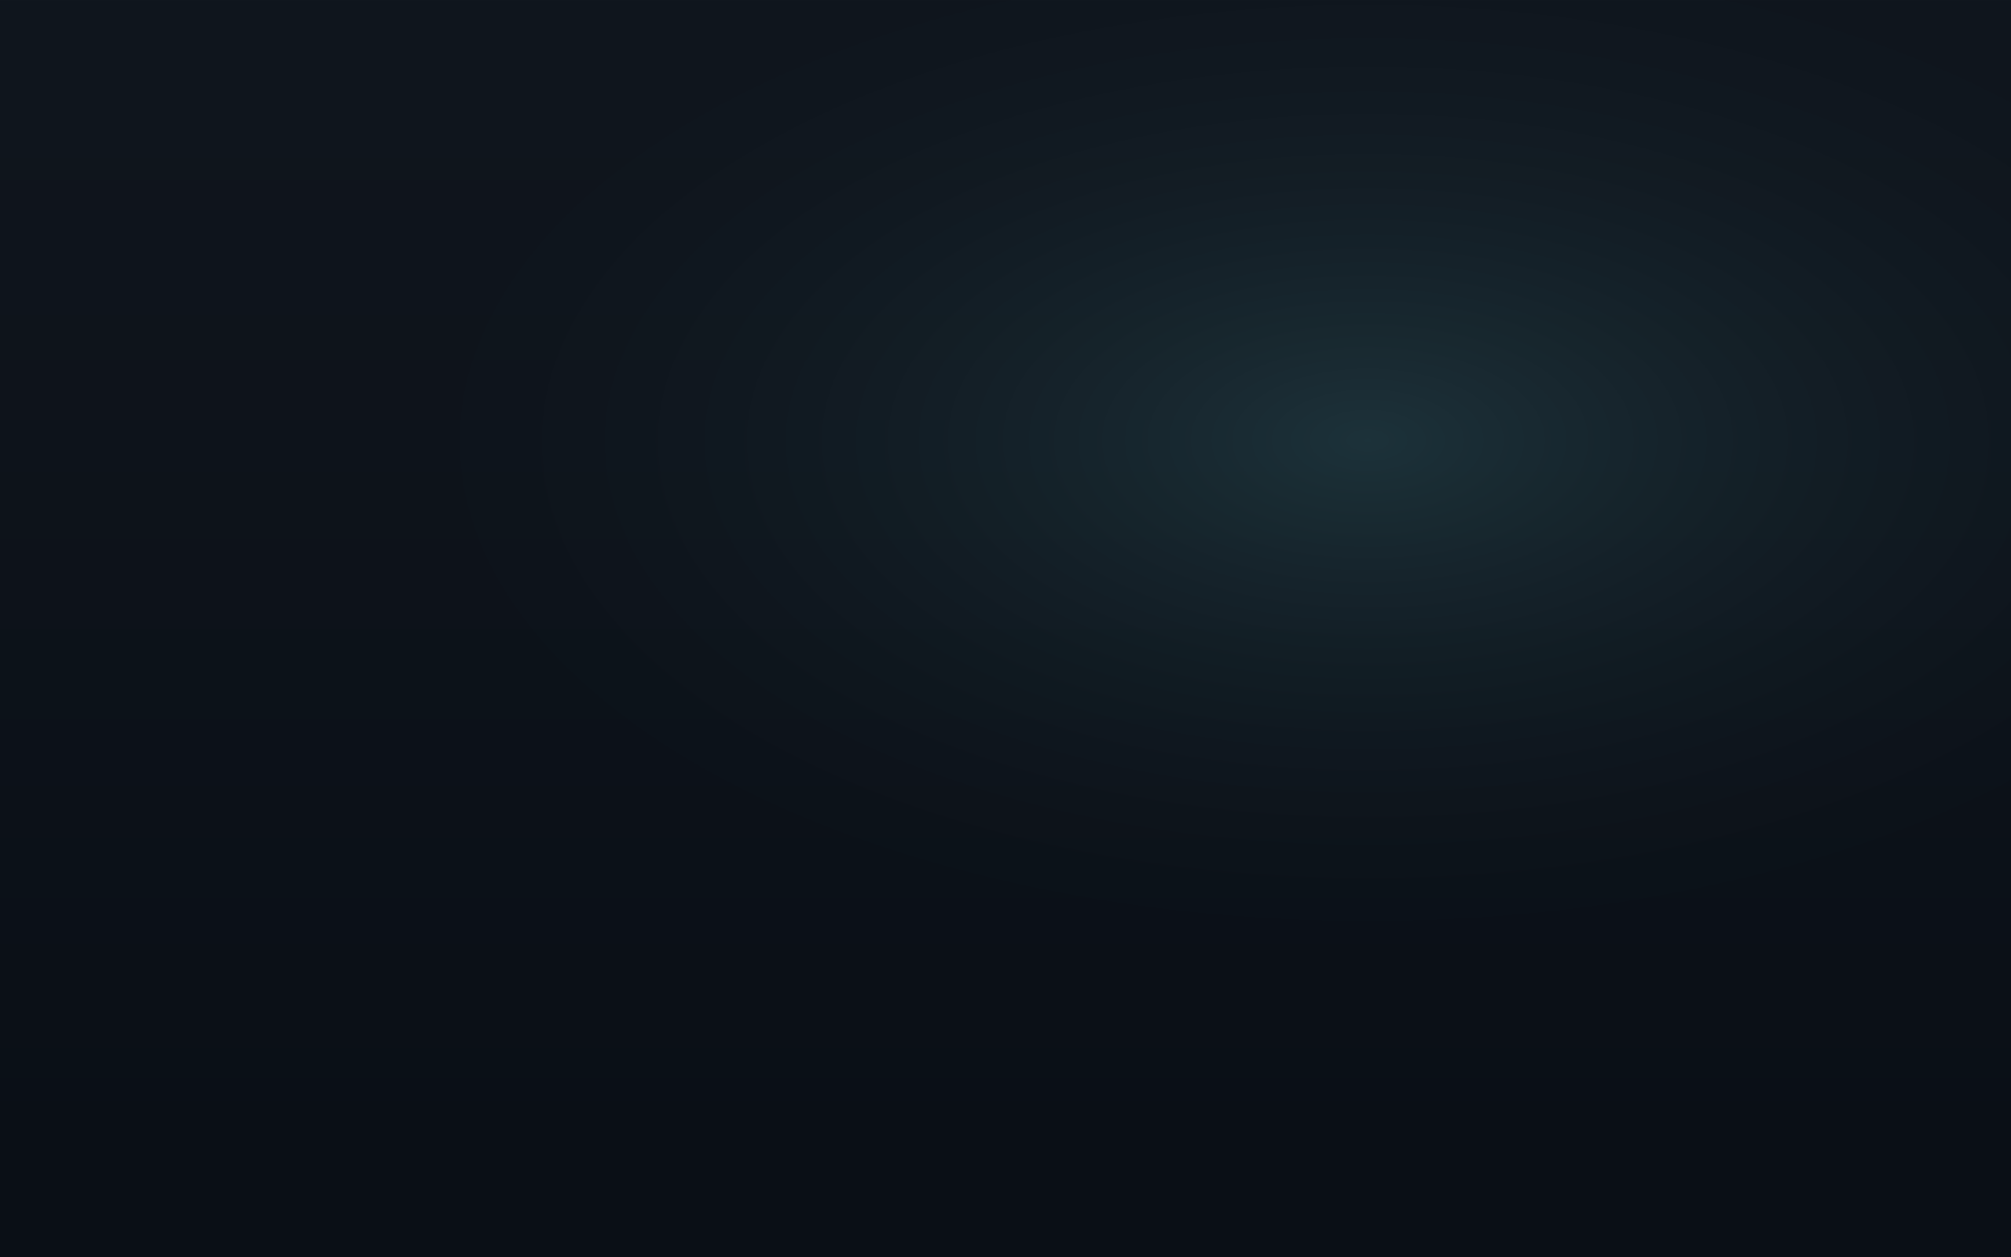
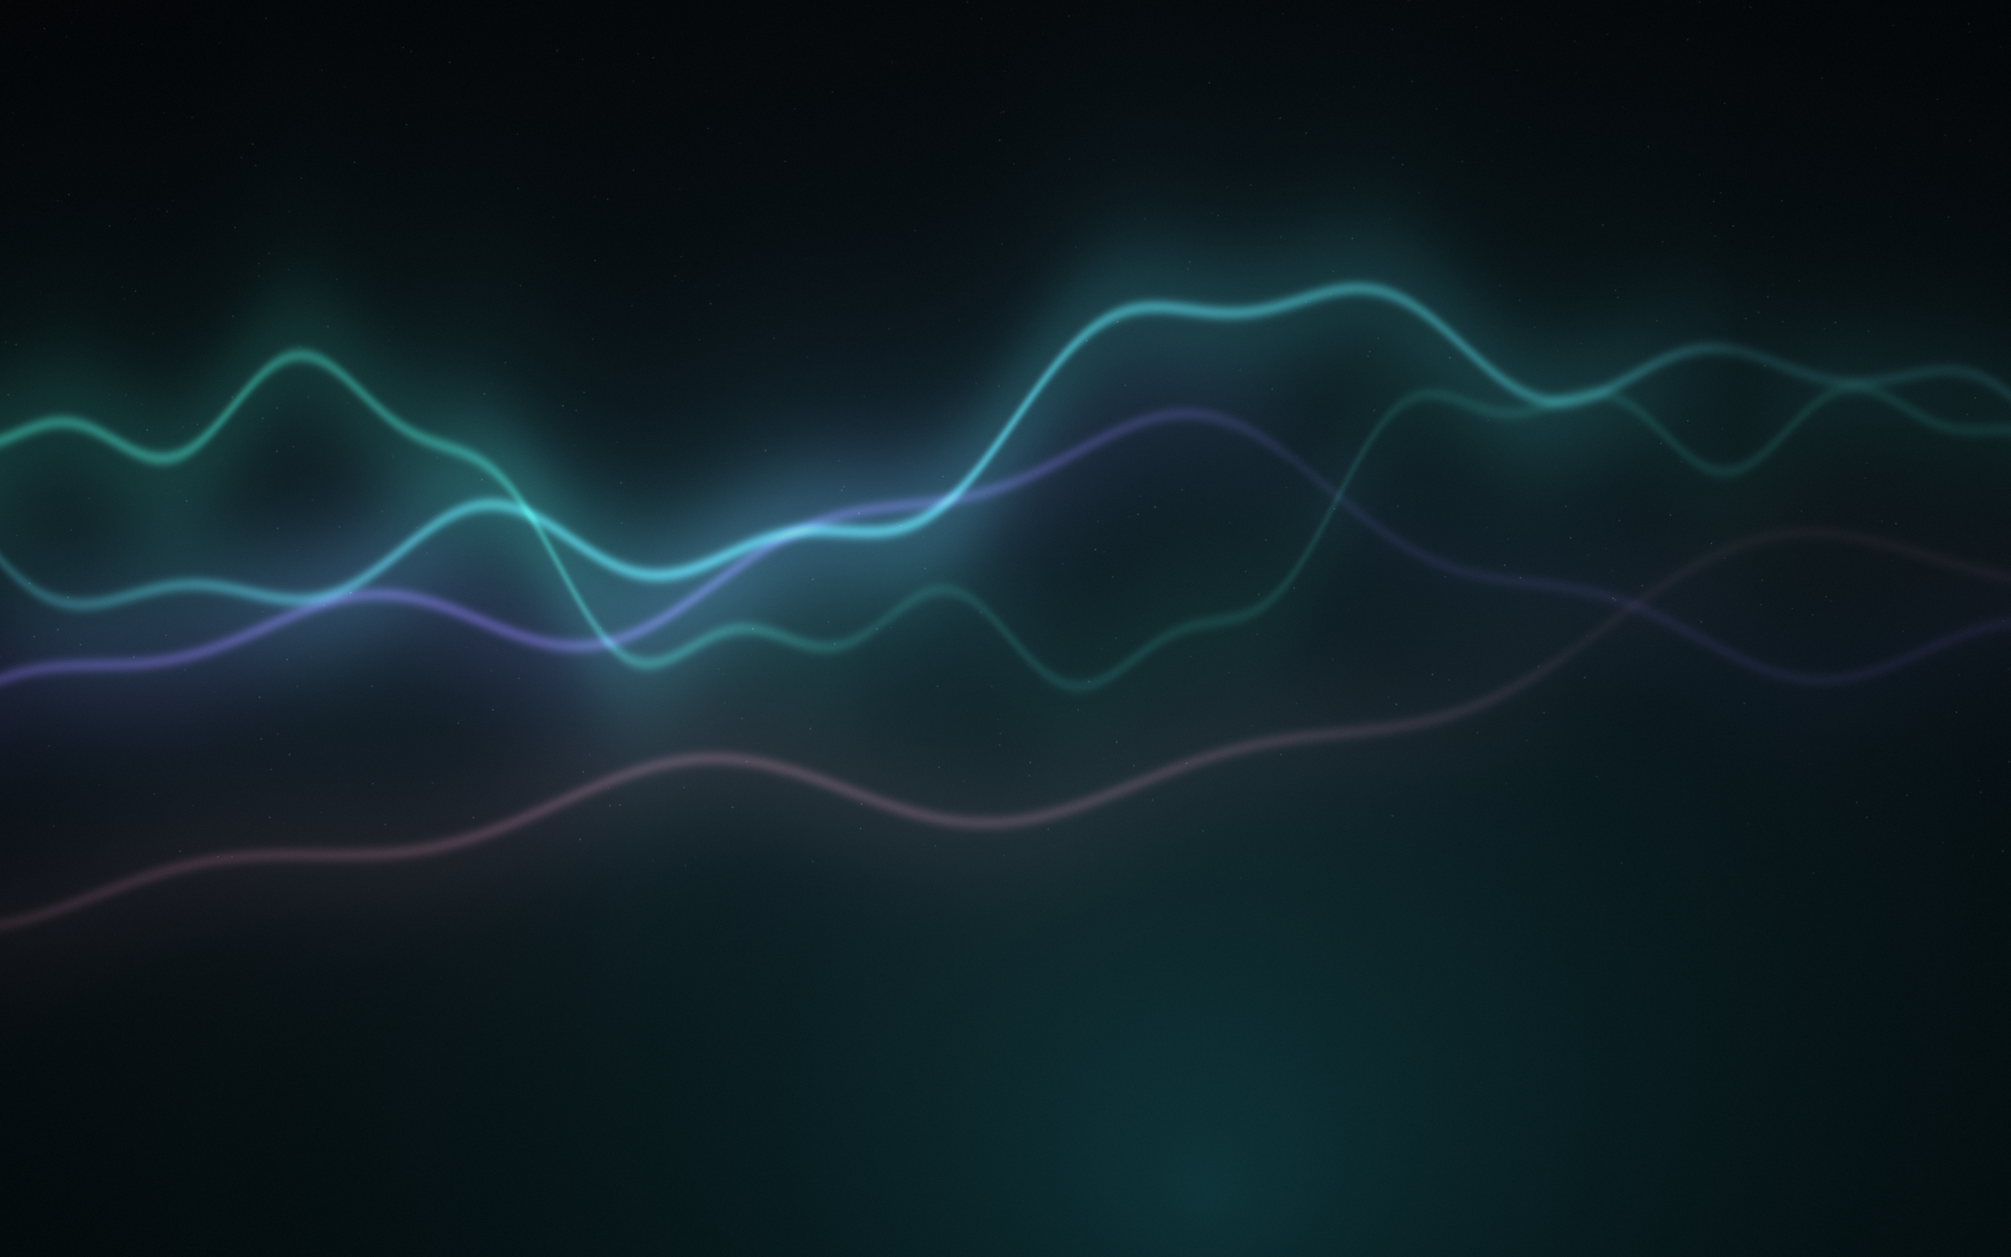
identity: Genesis Dark colour scheme, First Light wallpaper (procedural, 2560/4K), Inter + IBM Plex Mono, Papirus-Dark, Ocean sounds, centered floating dock with pinned apps, KRunner free-floating, blur on and no window borders, Splash.qml, Plymouth watermark, system defaults under /usr/share/kde-se

diff --git a/docs/genesis-design-plan.html b/docs/genesis-design-plan.html
@@ -1,0 +1,80 @@
+<title>Genesis Design Plan</title>
+<link rel="stylesheet" href="https://fonts.googleapis.com/css2?family=Manrope:wght@500;700;800&family=IBM+Plex+Mono&display=swap">
+<style>
+:root{--bg:#0b0f14;--bg2:#10161e;--panel:#161d27;--line:#232c37;--ink:#eef3f8;--ink2:#a9b4c1;--mute:#6f7a89;--acc:#5fb5bd;--v:#8f7be0;--good:#6ccf94;--warn:#e0a84a}
+*{box-sizing:border-box}body{margin:0;background:var(--bg);color:var(--ink);font-family:Manrope,system-ui,sans-serif;font-size:17px;line-height:1.6}
+.wrap{max-width:1080px;margin:0 auto;padding:60px 28px 100px}
+.k{color:var(--acc);letter-spacing:.2em;text-transform:uppercase;font-weight:800;font-size:12px;margin:0 0 12px}
+h1{font-size:clamp(34px,5vw,60px);line-height:1;letter-spacing:-.03em;margin:0 0 18px;font-weight:800;max-width:18ch;text-wrap:balance}
+h2{font-size:28px;margin:64px 0 12px;letter-spacing:-.02em}h3{font-size:19px;margin:28px 0 8px}
+p{max-width:68ch}.lead{font-size:20px;color:var(--ink2)}
+.grid{display:grid;grid-template-columns:repeat(auto-fit,minmax(240px,1fr));gap:14px;margin:18px 0}
+.card{background:var(--panel);border:1px solid var(--line);border-radius:12px;padding:16px 18px}.card b{display:block;margin-bottom:6px}.card p{margin:0;color:var(--ink2);font-size:15px}
+table{border-collapse:collapse;width:100%;font-size:15px;margin:14px 0}th,td{text-align:left;padding:9px 10px;border-bottom:1px solid var(--line);vertical-align:top}th{color:var(--mute);font-weight:700;font-size:12px;letter-spacing:.1em;text-transform:uppercase}
+.pill{display:inline-block;padding:2px 9px;border-radius:999px;font-size:12px;font-weight:700}.ok{background:#173a2a;color:var(--good)}.now{background:#143a3d;color:var(--acc)}.next{background:#2a2540;color:#c4b8ff}.later{background:#2b2418;color:var(--warn)}
+.sw{display:flex;gap:10px;flex-wrap:wrap;margin:10px 0}.sw div{width:120px;height:64px;border-radius:10px;border:1px solid var(--line);display:flex;align-items:flex-end;padding:6px 8px;font-size:12px;font-family:"IBM Plex Mono",monospace}
+ol.rules li{margin:8px 0}code{font-family:"IBM Plex Mono",monospace;font-size:14px;color:var(--acc)}
+.src{color:var(--mute);font-size:13px}.src a{color:var(--mute)}
+</style>
+<div class="wrap">
+<p class="k">Genesis · design plan · 12 September 2026</p>
+<h1>What has to be true for Genesis to be mind-blowing</h1>
+<p class="lead">Three research passes (Plasma visual identity, what wows people in 2025–26 products, and agent interaction design) boiled down into one identity stack, twelve moments, ten rules, and an order of work.</p>
+
+<h2>1 · The look: one identity, everywhere</h2>
+<p>The distros people screenshot at minute one (Omarchy, Aurora) win with coherent defaults, not with replaced widgets. Identity comes from colour, wallpaper, type, panel and boot-to-login continuity. Breeze stays; everything around it becomes Genesis.</p>
+<div class="sw"><div style="background:#0b0f14">ground</div><div style="background:#161d27">panel</div><div style="background:#232c37">line</div><div style="background:#5fb5bd;color:#08181a">accent</div><div style="background:#8f7be0;color:#0b0f14">second</div><div style="background:#dfe6ee;color:#0b0f14">ink</div></div>
+<div class="grid">
+<div class="card"><b>Colour scheme: Genesis Dark</b><p>Near-black neutrals with a blue bias, one teal accent, violet as the only second colour. Ships as a real KDE colour scheme, so every Qt app, Kirigami app and the login screen follow it.</p></div>
+<div class="card"><b>Wallpaper: First Light</b><p>Procedural: luminous ribbons over a deep field, a horizon glow, faint stars. Rendered at 2560×1600 and 4K. The same image is the boot, splash, login, lock and desktop background.</p></div>
+<div class="card"><b>Type: Inter + IBM Plex Mono</b><p>Inter for the interface at 10pt, Plex Mono for code and the terminal. Both packaged in Fedora, both open licences, set system-wide with fontconfig aliases.</p></div>
+<div class="card"><b>Icons and sound</b><p>Papirus-Dark icons (packaged, complete coverage), Ocean sound theme, Breeze cursors. No third-party window decoration or Kvantum: Plasma 6.5 already rounds every window at the compositor.</p></div>
+<div class="card"><b>Panel: a floating dock</b><p>Centered, fit-to-content, floating at the bottom. Genesis mark as the launcher, the maker next to it, five pinned apps, tray, clock. KRunner free-floating in the middle of the screen.</p></div>
+<div class="card"><b>Boot to login, one composition</b><p>Plymouth spinner carries the Genesis watermark, the Plasma splash shows the mark on the wallpaper with a thin progress line, the login manager uses the same wallpaper and colours.</p></div>
+</div>
+<p><span class="pill now">built today</span> colour scheme, wallpaper, fonts, icons, sound, dock layout, splash, boot watermark, system defaults under <code>/usr/share/kde-settings</code>. Lands in the next image.</p>
+
+<h2>2 · Twelve moments that make people say “wait, what?”</h2>
+<table><tr><th>#</th><th>Moment</th><th>Why it lands</th><th>Effort</th><th>Status</th></tr>
+<tr><td>1</td><td>First boot is already beautiful and configured; the wizard ends with something made</td><td>Screenshots at minute one sell distros; the first session must leave something the user keeps</td><td>L</td><td><span class="pill now">look built · “make something” step next</span></td></tr>
+<tr><td>2</td><td>A launcher that acts: Meta+Space, “resize these photos to 1080p and zip them”, done, with the command shown</td><td>Tahoe’s Spotlight actions were the one thing reviewers loved</td><td>M</td><td><span class="pill ok">maker path built</span> · select-to-act next</td></tr>
+<tr><td>3</td><td>Pull the cable: everything still works, and a tray badge proves “on this machine”</td><td>The exact inverse of Recall; what r/linux rewards</td><td>S</td><td><span class="pill next">next</span></td></tr>
+<tr><td>4</td><td>“Ask about this” on any selection or screen region, local only</td><td>Copilot Vision usefulness without the capture stigma</td><td>M</td><td><span class="pill next">next</span></td></tr>
+<tr><td>5</td><td>One-key theme swap that re-skins desktop, terminal, editor and the maker together</td><td>Omarchy’s most-shared moment</td><td>S</td><td><span class="pill later">later</span></td></tr>
+<tr><td>6</td><td>Proactive cards: a repo with failing tests, a calendar file in Downloads, a stuck update</td><td>Proactive beats a chat window (Pixel’s Magic Cue)</td><td>L</td><td><span class="pill later">later</span></td></tr>
+<tr><td>7</td><td>Agent with files and shell, sandboxed, visible diff and Keep / Undo before it sticks</td><td>Claude Code’s “different beast” feeling plus the trust Comet lacks</td><td>L</td><td><span class="pill ok">built</span> · Keep/Undo toast next</td></tr>
+<tr><td>8</td><td>Silent updates with rollback, never an “installing, don’t turn off” screen</td><td>Aurora’s polish marker; bootc gives it for free</td><td>M</td><td><span class="pill ok">inherited</span></td></tr>
+<tr><td>9</td><td>“Fits your machine” model picker with a memory bar and live tokens/s</td><td>LM Studio’s most loved screen, at OS level</td><td>S</td><td><span class="pill ok">built</span> · tokens/s next</td></tr>
+<tr><td>10</td><td>Hold to talk anywhere; “dark mode at sunset” just happens</td><td>Demo-able and private</td><td>M</td><td><span class="pill ok">voice built</span> · system intents next</td></tr>
+<tr><td>11</td><td>Phone continuity on day one (notifications, clipboard, files)</td><td>Absent on Linux, so it reads as magic; KDE Connect ships in the image</td><td>M</td><td><span class="pill later">polish later</span></td></tr>
+<tr><td>12</td><td>Terminal with natural language to command, block output</td><td>Developers are the launch audience; Warp is their benchmark</td><td>M</td><td><span class="pill later">later</span></td></tr>
+</table>
+
+<h2>3 · Ten rules for how it behaves</h2>
+<ol class="rules">
+<li><b>Meta+Space is the one door.</b> Typing, holding to talk, and “do this with the selection” all live in the same palette. Starter prompts sit under the empty field.</li>
+<li><b>A plan card before anything touches the system.</b> “Will touch: these files, this app, the network” as chips, then Proceed / Edit / I’ll do it myself.</li>
+<li><b>Plain verbs, never tier names.</b> “Genesis wants to install a package. Allow once · Allow for this project · Not now.” Tiers live in Settings.</li>
+<li><b>Three modes on the status bar, one key to cycle:</b> Ask · Trusted · Hands-off. Per-app always/never beats the classifier.</li>
+<li><b>Every job runs on a snapshot and ends with Keep / Undo.</b> A timeline lists jobs; irreversible steps (sent, deleted remotely) are marked in red.</li>
+<li><b>Show the thing being made, live.</b> Steps with checkmarks, never a spinner alone; a stalled step says why after ten seconds.</li>
+<li><b>“On this machine” is provable.</b> A tray indicator shows the model and “no network used”; any download is listed per job.</li>
+<li><b>Voice: acknowledge in 300 ms, transcript first.</b> Push-to-talk by default, wake word opt-in with a visible mic, risky spoken intents get a visual confirm, Esc stops speech.</li>
+<li><b>First run ends with something made.</b> Three one-line offers; the result lands in a “Made here” gallery with a shareable recipe.</li>
+<li><b>Accessible by construction.</b> Keyboard-complete, screen-reader status region, reduced-motion respected, every sound has a visual twin.</li>
+</ol>
+
+<h2>4 · Order of work</h2>
+<table><tr><th>Phase</th><th>Deliverable</th><th>Status</th></tr>
+<tr><td>A · Identity</td><td>Colour scheme, wallpaper, fonts, icons, dock, splash, boot watermark, login, lock screen</td><td><span class="pill now">in the next image</span></td></tr>
+<tr><td>B · Trust surface</td><td>Tray indicator (“on this machine”, model, network use), plain-verb permission dialogs, Keep / Undo toast, mode switch on the bar</td><td><span class="pill next">next</span></td></tr>
+<tr><td>C · One door</td><td>Meta+Space palette with typed, spoken and selection input; starter prompts; “ask about this” on a selection</td><td><span class="pill next">next</span></td></tr>
+<tr><td>D · First run that makes something</td><td>Last wizard step offers three makes; “Made here” gallery; share recipe</td><td><span class="pill next">next</span></td></tr>
+<tr><td>E · Settings section</td><td>Genesis in System Settings: models, permissions, undo history, voice</td><td><span class="pill later">planned</span></td></tr>
+<tr><td>F · Proactive and continuity</td><td>Context cards, theme swap, terminal, KDE Connect polish</td><td><span class="pill later">later</span></td></tr>
+</table>
+
+<h2>5 · What we deliberately do not do</h2>
+<p>No screen recording or always-on capture (Recall). No AI button on every surface (Copilot). No cloud fallback by default (Siri). No replaced window decorations or Kvantum (Garuda’s breakage). No features announced before they run (Siri again). Basics first: a timer must still be a timer.</p>
+<p class="src">Sources are in the three research reports summarised in <a href="decisions.md">decisions.md</a> (33) and the brief. Product research: MacRumors, Tom’s Guide, GeekWire, DoublePulsar, Android Central, Tedium, XDA, HN. Plasma: KDE developer docs, Fedora change pages, Aurora and Nitrux sources. Interaction: Smashing Magazine (2026), Claude Code, Goose, OpenHands and Devin docs, NN/g, AssemblyAI.</p>
+</div>

diff --git a/system_files/usr/share/plasma/look-and-feel/org.genesis.desktop/contents/layouts/org.kde.plasma.desktop-layout.js b/system_files/usr/share/plasma/look-and-feel/org.genesis.desktop/contents/layouts/org.kde.plasma.desktop-layout.js
@@ -1,21 +1,36 @@
-// Genesis default layout: one bottom panel with the app launcher, the Genesis maker, task manager and tray.
+// Genesis default layout: a centered, floating dock at the bottom. Launcher with the Genesis mark,
+// the maker one click away, pinned everyday apps, tray and clock. Nothing else on the desktop.
 var plasma = getApiVersion(1);
 var layoutDesktop = new Desktop();
 layoutDesktop.wallpaperPlugin = "org.kde.image";
 layoutDesktop.currentConfigGroup = ["Wallpaper", "org.kde.image", "General"];
-layoutDesktop.writeConfig("Image", "file:///usr/share/wallpapers/Genesis/contents/images/2560x1600.png");
+layoutDesktop.writeConfig("Image", "file:///usr/share/wallpapers/Genesis/");
+
 var panel = new Panel();
 panel.location = "bottom";
-panel.height = 2 * Math.floor(gridUnit * 2.5 / 2);
+panel.alignment = "center";
+panel.lengthMode = "fit";
+panel.floating = true;
+panel.hiding = "none";
+panel.height = 2 * Math.floor(gridUnit * 2.9 / 2);
+
 var kickoff = panel.addWidget("org.kde.plasma.kickoff");
 kickoff.currentConfigGroup = ["General"];
 kickoff.writeConfig("icon", "genesis");
+kickoff.writeConfig("alphaSort", true);
+
 var maker = panel.addWidget("org.kde.plasma.icon");
 maker.currentConfigGroup = ["General"];
 maker.writeConfig("url", "file:///usr/share/applications/org.genesis.workspace.desktop");
-panel.addWidget("org.kde.plasma.pager");
-panel.addWidget("org.kde.plasma.icontasks");
+
+var tasks = panel.addWidget("org.kde.plasma.icontasks");
+tasks.currentConfigGroup = ["General"];
+tasks.writeConfig("launchers", ["applications:firefox.desktop", "applications:org.kde.dolphin.desktop", "applications:org.kde.konsole.desktop", "applications:org.kde.discover.desktop", "applications:systemsettings.desktop"]);
+tasks.writeConfig("showOnlyCurrentScreen", false);
+
 panel.addWidget("org.kde.plasma.marginsseparator");
 panel.addWidget("org.kde.plasma.systemtray");
-panel.addWidget("org.kde.plasma.digitalclock");
+var clock = panel.addWidget("org.kde.plasma.digitalclock");
+clock.currentConfigGroup = ["Appearance"];
+clock.writeConfig("showDate", false);
 panel.addWidget("org.kde.plasma.showdesktop");

diff --git a/system_files/usr/share/plasma/look-and-feel/org.genesis.desktop/contents/splash/Splash.qml b/system_files/usr/share/plasma/look-and-feel/org.genesis.desktop/contents/splash/Splash.qml
@@ -1,0 +1,30 @@
+// Genesis splash: the wallpaper, the mark, a thin progress line. Same composition as boot and login.
+import QtQuick
+
+Rectangle {
+    id: root
+    color: "#0b0f14"
+    property int stage
+    onStageChanged: if (stage === 1) introAnimation.running = true
+
+    Image {
+        anchors.fill: parent
+        source: "file:///usr/share/wallpapers/Genesis/contents/images/2560x1600.png"
+        fillMode: Image.PreserveAspectCrop
+        opacity: 0.9
+    }
+    Item {
+        id: content
+        anchors.centerIn: parent
+        width: 220; height: 160
+        opacity: 0
+        Image { id: logo; source: "images/genesis.svg"; width: 96; height: 96; sourceSize: Qt.size(96, 96); anchors.horizontalCenter: parent.horizontalCenter }
+        Text { anchors.top: logo.bottom; anchors.topMargin: 18; anchors.horizontalCenter: parent.horizontalCenter; text: "Genesis"; color: "#dfe6ee"; font.pixelSize: 22; font.weight: Font.DemiBold; font.letterSpacing: 1 }
+    }
+    Rectangle {
+        anchors.bottom: parent.bottom; anchors.bottomMargin: 60; anchors.horizontalCenter: parent.horizontalCenter
+        width: 220; height: 2; radius: 1; color: "#232c37"
+        Rectangle { width: parent.width * (root.stage / 6); height: parent.height; radius: 1; color: "#5fb5bd"; Behavior on width { NumberAnimation { duration: 250 } } }
+    }
+    OpacityAnimator { id: introAnimation; target: content; from: 0; to: 1; duration: 700; running: false }
+}

diff --git a/system_files/usr/share/plasma/look-and-feel/org.genesis.desktop/contents/plasmoidsetupscripts/org.kde.plasma.kickoff.js b/system_files/usr/share/plasma/look-and-feel/org.genesis.desktop/contents/plasmoidsetupscripts/org.kde.plasma.kickoff.js
@@ -1,0 +1,5 @@
+// Applied when Kickoff is added to a panel: Genesis mark, alphabetical apps, compact rows.
+plasmoid.currentConfigGroup = ["General"];
+plasmoid.writeConfig("icon", "genesis");
+plasmoid.writeConfig("alphaSort", true);
+plasmoid.writeConfig("compactMode", false);

diff --git a/docs/decisions.md b/docs/decisions.md
@@ -36,3 +36,4 @@ Short form. Evidence and alternatives are in [genesis-brief.html](genesis-brief.
 | 30 | 2026-09-11 | Browser control built: agentd gained browser_open / browser_read / browser_click / browser_type / browser_screenshot, driving a headless Chromium (Fedora `chromium` RPM) over the DevTools protocol with a throw-away profile, never the user's browser. Pages come back as text plus a numbered element list. Gating: navigate is R1 (network, prompts in Assist), click/type W1, read R0; every page read taints the session so anything at W2 and above asks a human again. Verified against a local page with real Chromium in the test suite. | built |
 | 31 | 2026-09-11 | Voice input built: whisper.cpp v1.8.1 compiled in the image (`/usr/lib/genesis/whisper/bin/whisper-cli`; Fedora's package ships only the library), an optional `stt` model (ggml-base-q5_1, 57 MB) in every pack, `POST /api/transcribe` in agentd, hold-to-talk mic buttons in the maker, and genesis-window granting the microphone to local surfaces only. Audio is recorded as 16 kHz WAV in the page, so no ffmpeg is needed. Everything stays on the machine. | built |
 | 32 | 2026-09-12 | Voice output built: Piper (upstream static Linux build, 26 MB, with its espeak-ng data and onnxruntime) under `/usr/lib/genesis/piper`, an optional `tts` voice (en_US-lessac-medium, 70 MB) in every pack, `POST /api/speak` in agentd returning WAV, and a speaker toggle in the maker that reads replies aloud. Verified: the shipped Linux build speaks inside a Fedora 44 container; the macOS build lacks its espeak-ng library, so the Mac unit test skips. | built |
+| 33 | 2026-09-12 | Design plan after three research passes (Plasma identity, what wows in 2025–26 products, agent interaction design): identity comes from colour + wallpaper + type + dock + boot-to-login continuity, not replaced widgets; twelve wow moments ranked; ten behaviour rules (one door at Meta+Space, plan card, plain-verb prompts, Keep/Undo, provable "on this machine", voice acknowledges in 300 ms, first run ends with something made). Full plan: docs/genesis-design-plan.html. Phase A (identity) implemented: GenesisDark colour scheme, procedural wallpaper, Inter + IBM Plex Mono, Papirus-Dark, Ocean sounds, centered floating dock with pinned apps, KRunner free-floating, blur on, no window borders, Splash.qml, Plymouth watermark, defaults under /usr/share/kde-settings. | accepted |
